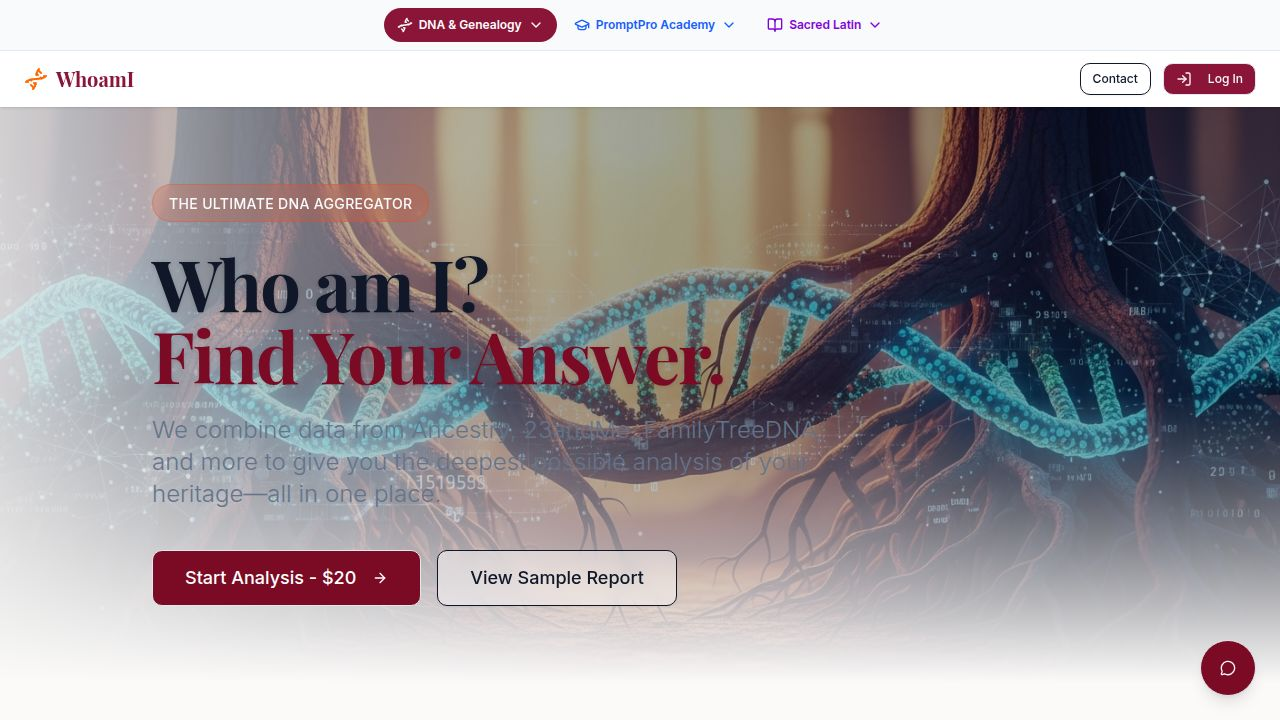
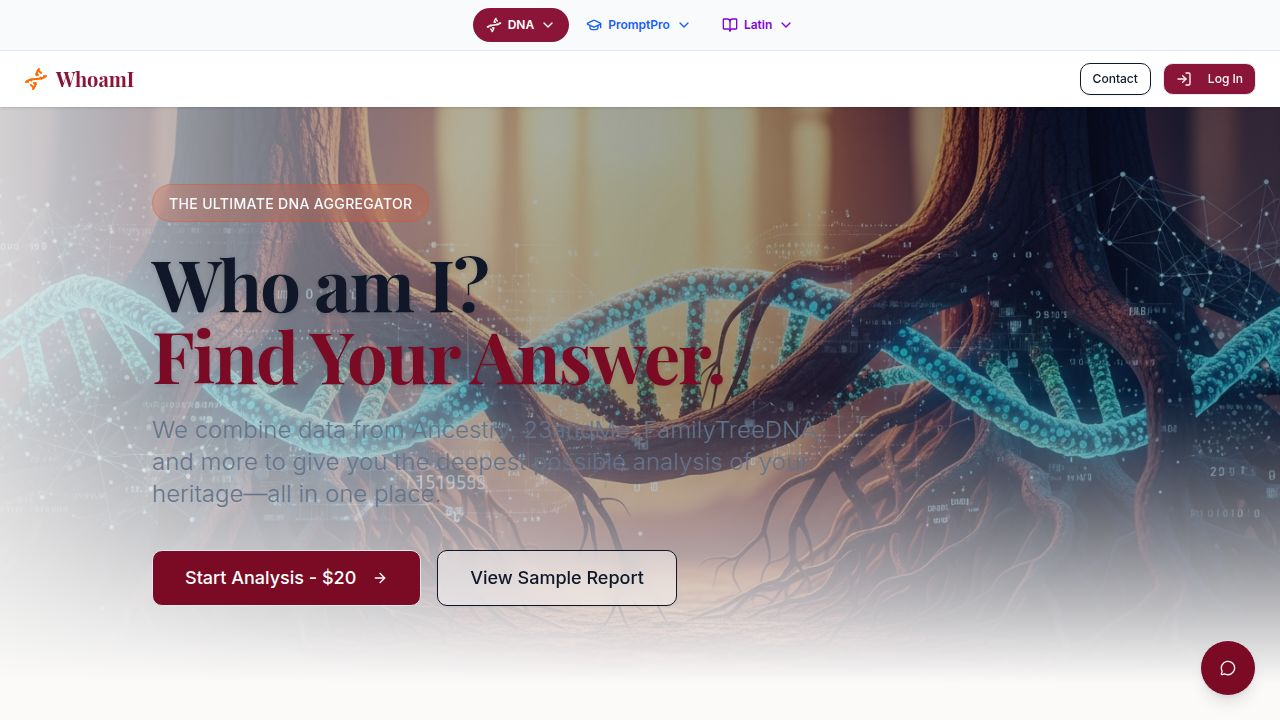
Update navigation tab names to improve mobile display
Shorten business names in the Navbar component for better responsiveness on smaller screens, changing "DNA & Genealogy" to "DNA", "PromptPro Academy" to "PromptPro", and "Sacred Latin" to "Latin". The full names are retained for the mobile menu.

Replit-Commit-Author: Agent
Replit-Commit-Session-Id: a95ecaea-4d57-41a1-8dbe-08443d1b851d
Replit-Commit-Checkpoint-Type: full_checkpoint
Replit-Commit-Event-Id: 939c868a-4b9c-4170-9f3f-43383b9d352b
Replit-Commit-Screenshot-Url: https://storage.googleapis.com/screenshot-production-us-central1/dd380d11-c439-4c32-8e07-b15dbaf14512/a95ecaea-4d57-41a1-8dbe-08443d1b851d/jZmQFjL
Replit-Helium-Checkpoint-Created: true

Changed region(s): [[0.2812, 0.0, 0.6875, 0.0611]]

diff --git a/client/src/components/layout/Navbar.tsx b/client/src/components/layout/Navbar.tsx
@@ -19,7 +19,8 @@ export function Navbar() {
 
   const businesses = [
     {
-      name: "DNA & Genealogy",
+      name: "DNA",
+      fullName: "DNA & Genealogy",
       icon: Dna,
       color: "text-[#8B1538]",
       bgColor: "bg-[#8B1538]",
@@ -32,7 +33,8 @@ export function Navbar() {
       ],
     },
     {
-      name: "PromptPro Academy",
+      name: "PromptPro",
+      fullName: "PromptPro Academy",
       icon: GraduationCap,
       color: "text-blue-600",
       bgColor: "bg-blue-600",
@@ -45,7 +47,8 @@ export function Navbar() {
       ],
     },
     {
-      name: "Sacred Latin",
+      name: "Latin",
+      fullName: "Sacred Latin",
       icon: BookOpen,
       color: "text-purple-700",
       bgColor: "bg-purple-700",
@@ -186,7 +189,7 @@ export function Navbar() {
                     <div key={business.name} className="space-y-2">
                       <div className={`flex items-center gap-2 ${business.color} font-semibold text-lg border-b pb-2`}>
                         <IconComponent className="h-5 w-5" />
-                        {business.name}
+                        {business.fullName}
                       </div>
                       <div className="pl-4 space-y-2">
                         {business.links.map((link) => (
